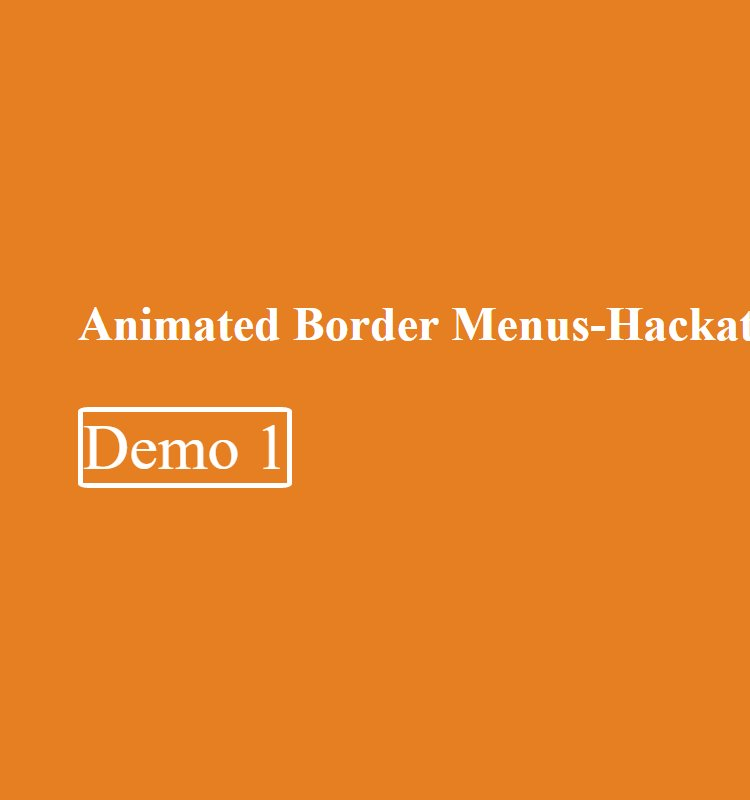
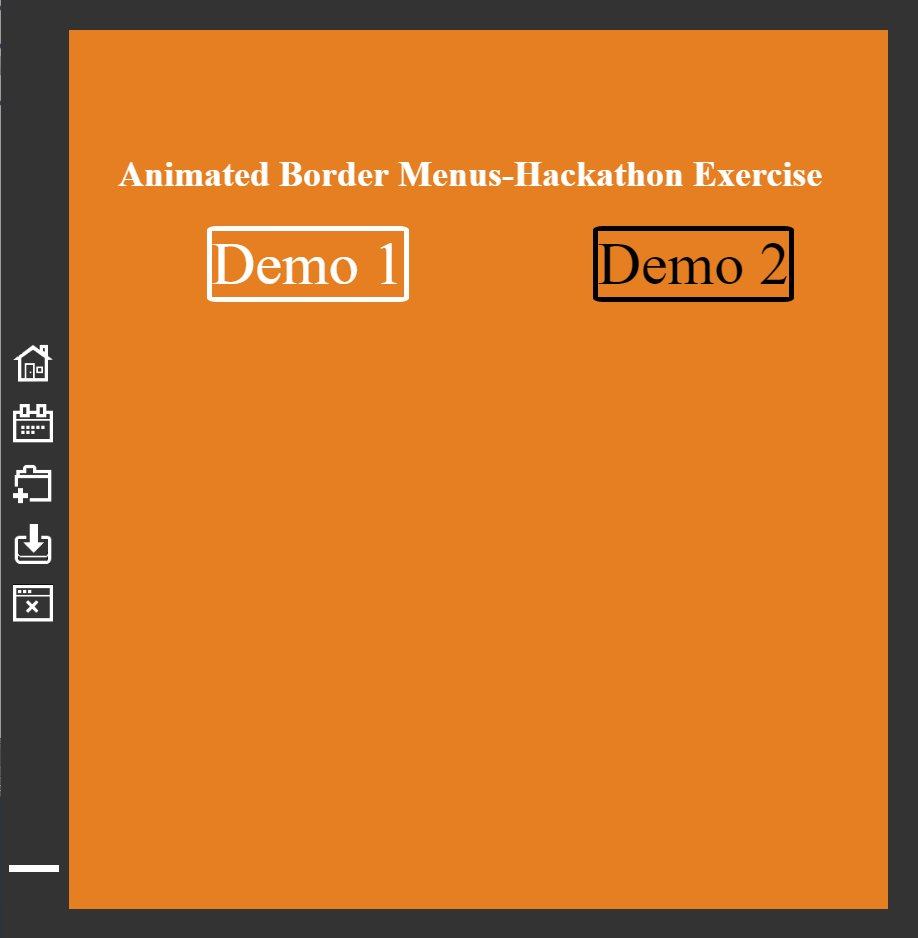
added new border screenshots and gif to carousel

Changed region(s): [[0.0, 0.0, 1.0, 1.0], [0.1227, 0.1562, 0.8893, 0.3438]]

diff --git a/index.html b/index.html
@@ -608,7 +608,7 @@
           <img src="images/animatedBorders3.jpg">
 
           <input type="radio" name="images7" id="project7Img4" >
-          <img src="images/animatedBorders4.jpg">          
+          <img src="images/borders.gif">          
 
           <div class="chevronLabels">
             <label for="project7Img2" class="right"><i class="fa fa-chevron-right " aria-hidden="true"></i></label>
